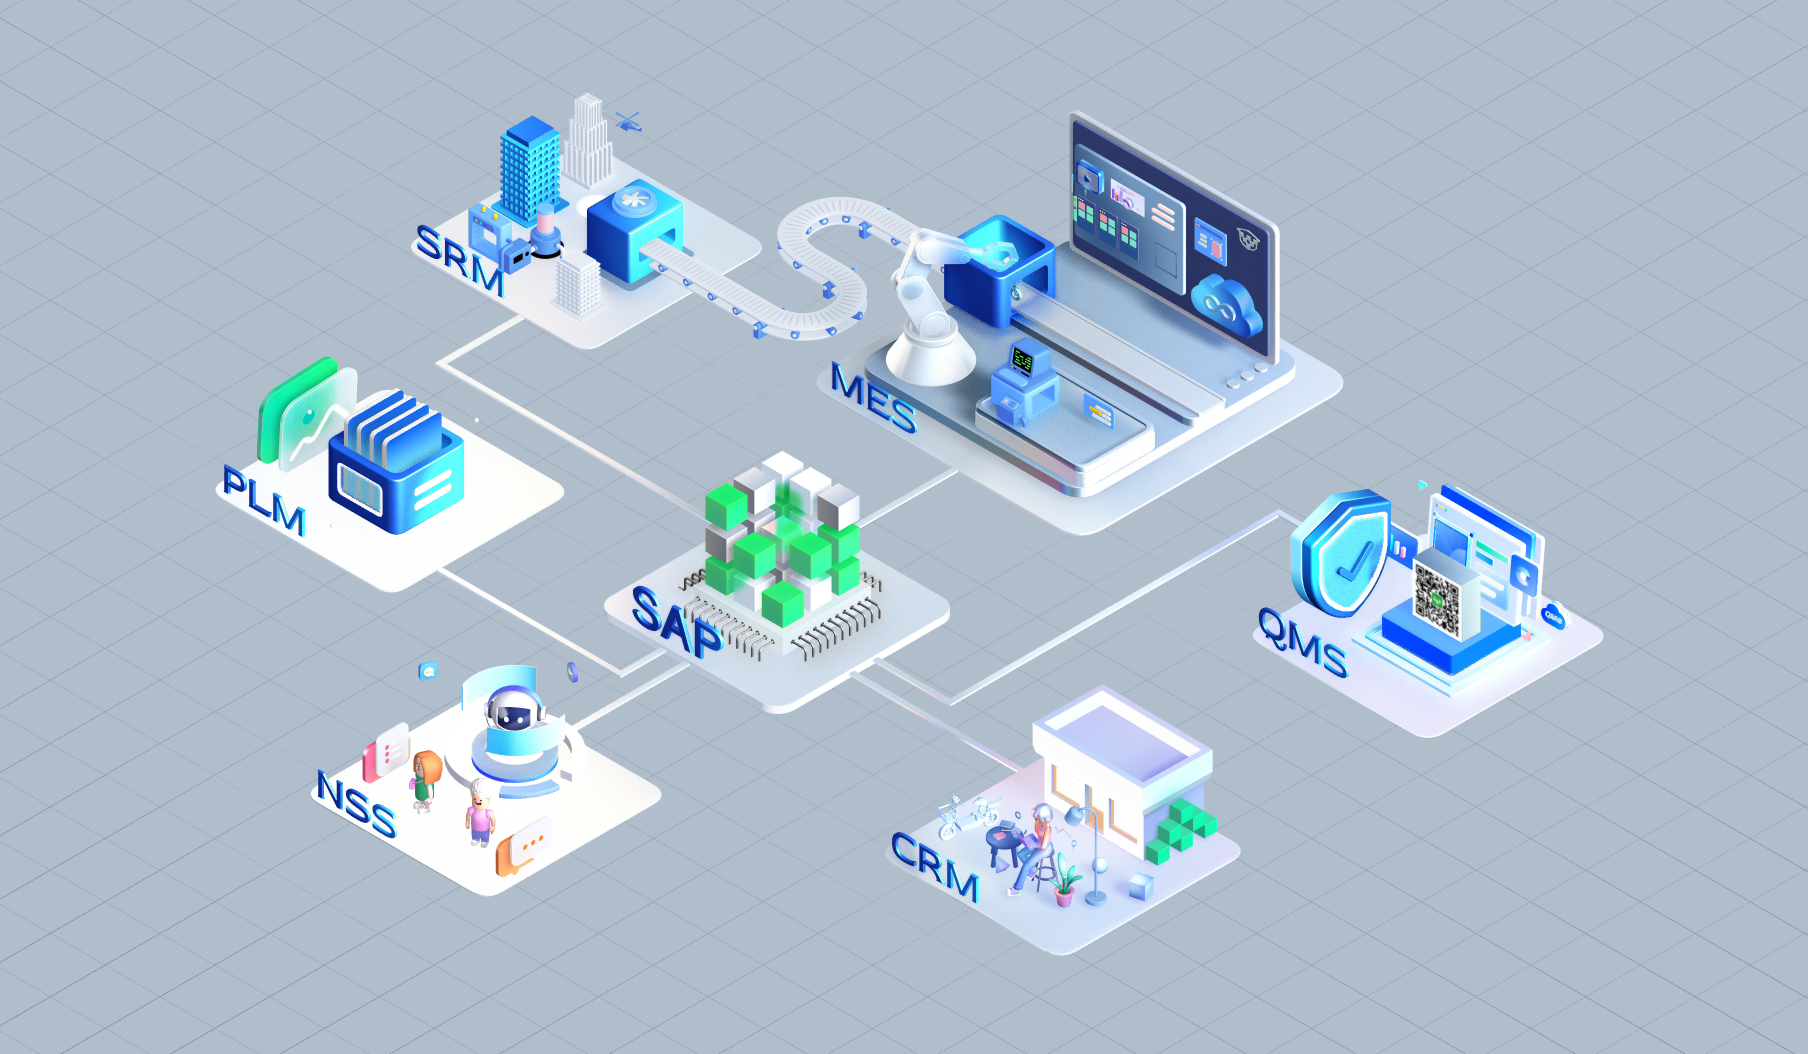
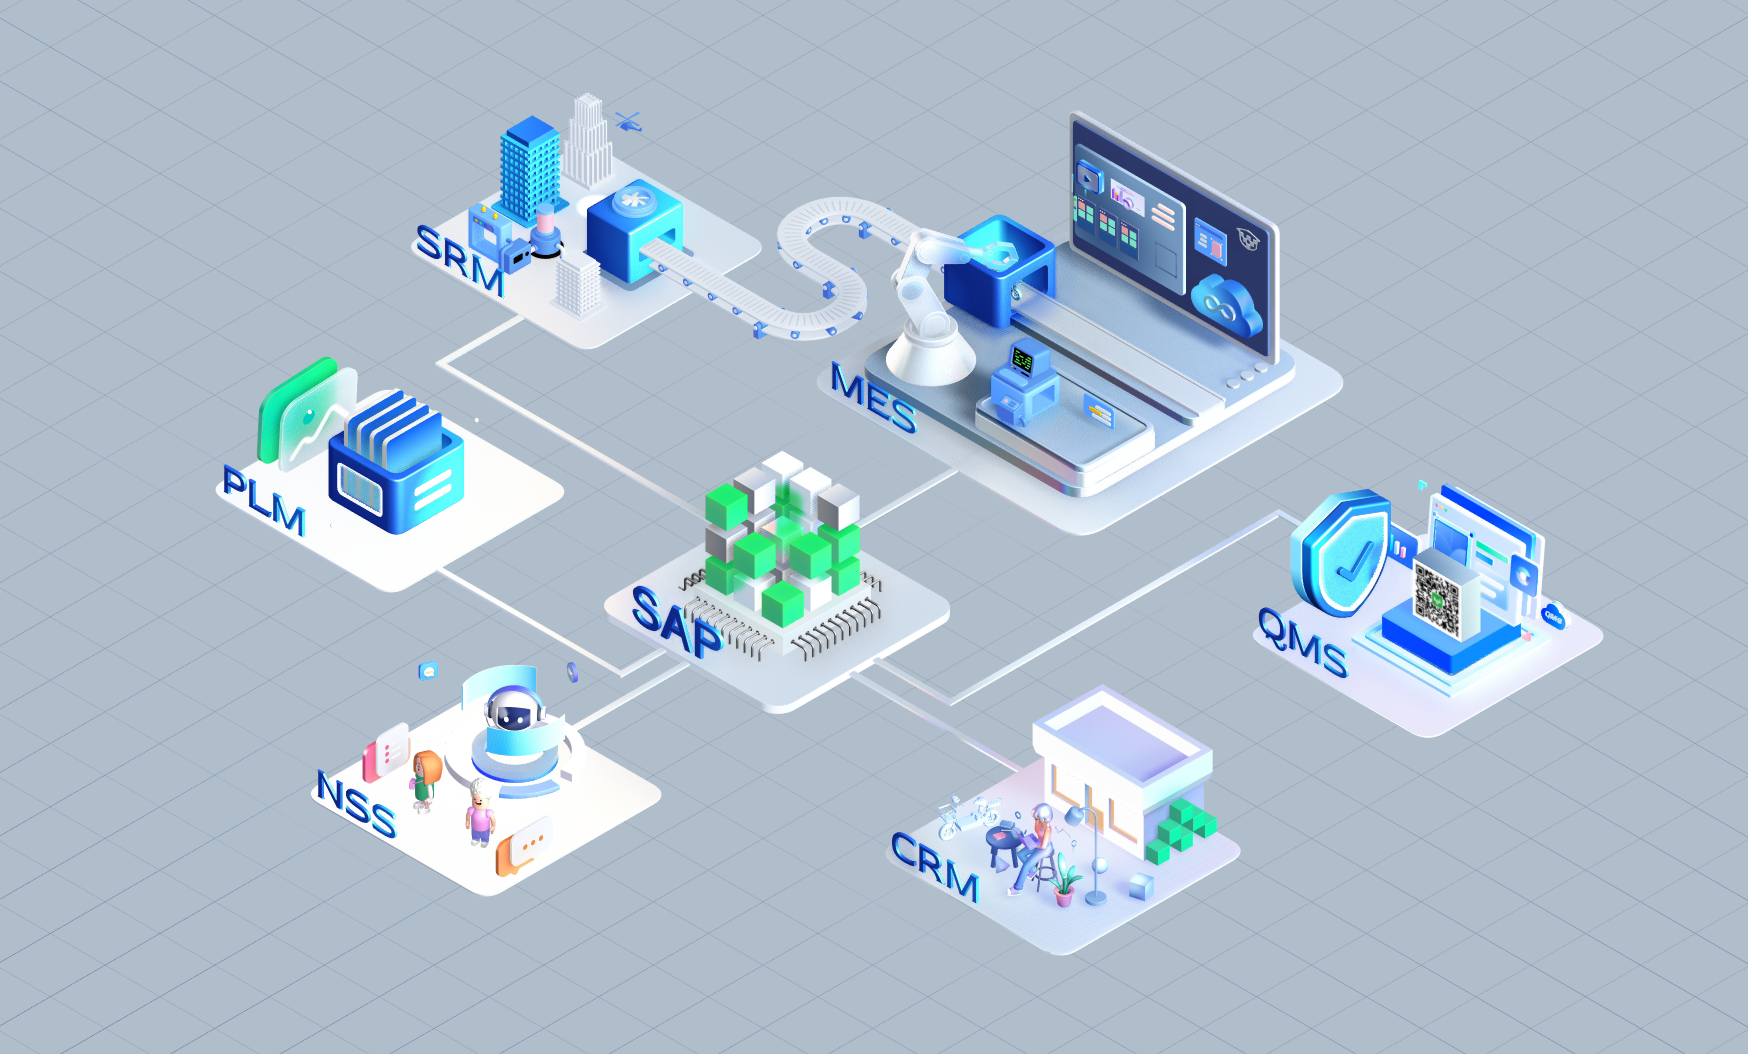
Add 3D tilt card with float animation and shine effect to landing page hero image
- Crop factory image 60px from right side
- Implement TiltCard component with dual-state behavior:
  - Default: smooth floating oscillation (±10px) with animated drop shadow
  - Hover: 3D perspective tilt that follows cursor position
  - Shine gleam sweeps diagonally across image in idle state
  - JS-driven animation (requestAnimationFrame) for seamless transitions between states

Changed region(s): [[0.1236, 0.0911, 0.9268, 0.9108], [0.278, 0.4858, 0.3089, 0.5161]]

diff --git a/src/app/pages/LandingPage.tsx b/src/app/pages/LandingPage.tsx
@@ -1,3 +1,4 @@
+import { useRef, useState, useEffect, useCallback } from 'react';
 import { useNavigate } from 'react-router';
 import { ArrowRight, ArrowDown, Bot, Target, Zap, Link, ShieldCheck, LineChart, Factory, Store, Settings, Brain, Check } from 'lucide-react';
 import { useTranslation, Trans } from 'react-i18next';
@@ -8,6 +9,90 @@ const ProceptLogo = ({ className }: { className?: string }) => (
     <path d="M 4 50 L 96 50 M 78 36 L 96 50 L 78 64" />
   </svg>
 );
+
+const shimmerKeyframes = `
+  @keyframes shimmer {
+    0% { background-position: 200% 0; }
+    100% { background-position: -200% 0; }
+  }
+`;
+
+const TiltCard = ({ children, className = '' }: { children: React.ReactNode; className?: string }) => {
+  const ref = useRef<HTMLDivElement>(null);
+  const [hovering, setHovering] = useState(false);
+  const [tilt, setTilt] = useState({ x: 0, y: 0 });
+  const [floatY, setFloatY] = useState(0);
+  const [floatShadow, setFloatShadow] = useState('0 8px 30px rgba(0,0,0,0.08)');
+  const animRef = useRef(0);
+
+  const animate = useCallback(() => {
+    const t = performance.now() / 1000;
+    const y = Math.sin(t * 1.2) * 10; // ±10px oscillation
+    const shadowAlpha = 0.08 + ((Math.sin(t * 1.2) + 1) / 2) * 0.08; // 0.08 → 0.16
+    const shadowY = 8 + ((Math.sin(t * 1.2) + 1) / 2) * 16; // 8px → 24px
+    const shadowBlur = 30 + ((Math.sin(t * 1.2) + 1) / 2) * 25; // 30px → 55px
+    setFloatY(y);
+    setFloatShadow(`0 ${shadowY}px ${shadowBlur}px rgba(0,0,0,${shadowAlpha.toFixed(3)})`);
+    animRef.current = requestAnimationFrame(animate);
+  }, []);
+
+  useEffect(() => {
+    if (!hovering) {
+      animRef.current = requestAnimationFrame(animate);
+    } else {
+      cancelAnimationFrame(animRef.current);
+    }
+    return () => cancelAnimationFrame(animRef.current);
+  }, [hovering, animate]);
+
+  const handleMouseMove = (e: React.MouseEvent) => {
+    const el = ref.current;
+    if (!el) return;
+    const rect = el.getBoundingClientRect();
+    const x = (e.clientX - rect.left) / rect.width - 0.5;
+    const y = (e.clientY - rect.top) / rect.height - 0.5;
+    setTilt({ x, y });
+  };
+
+  // Always use inline transform so CSS transition can interpolate seamlessly
+  const transform = hovering
+    ? `perspective(1200px) rotateY(${tilt.x * 12}deg) rotateX(${-tilt.y * 8}deg) translateZ(20px)`
+    : `perspective(1200px) rotateY(0deg) rotateX(0deg) translateY(${floatY}px)`;
+
+  const boxShadow = hovering
+    ? `${-tilt.x * 30}px ${-tilt.y * 30}px 60px rgba(0,0,0,0.15)`
+    : floatShadow;
+
+  return (
+    <>
+      <style>{shimmerKeyframes}</style>
+      <div
+        ref={ref}
+        className={className}
+        style={{
+          transform,
+          boxShadow,
+          transformStyle: 'preserve-3d',
+          transition: 'transform 0.3s ease-out, box-shadow 0.3s ease-out',
+        }}
+        onMouseEnter={() => setHovering(true)}
+        onMouseMove={handleMouseMove}
+        onMouseLeave={() => { setHovering(false); setTilt({ x: 0, y: 0 }); }}
+      >
+        {/* Shine gleam overlay */}
+        <div
+          className="absolute inset-0 pointer-events-none z-10 rounded-2xl overflow-hidden"
+          style={{
+            background: 'linear-gradient(105deg, transparent 40%, rgba(255,255,255,0.06) 45%, rgba(255,255,255,0.12) 50%, rgba(255,255,255,0.06) 55%, transparent 60%)',
+            backgroundSize: '200% 100%',
+            animation: hovering ? 'none' : 'shimmer 3.5s ease-in-out infinite',
+          }}
+        />
+        {children}
+      </div>
+    </>
+  );
+};
 
 const DataFlowDiagram = () => {
   const { t } = useTranslation();
@@ -184,13 +269,13 @@ export function LandingPage() {
                 {/* RIGHT — Factory Image */}
                 <div className="relative lg:self-stretch flex items-center">
                   <div className="absolute inset-0 bg-cyan-400/[0.04] rounded-[2.5rem] blur-3xl -z-10 pointer-events-none scale-90" />
-                  <div className="relative w-full rounded-2xl overflow-hidden border border-gray-200/80 shadow-xl shadow-gray-200/50 bg-[#0A0D12] aspect-[5/4] lg:aspect-[16/9]">
+                  <TiltCard className="relative w-full rounded-2xl overflow-hidden border border-gray-200/80 shadow-xl shadow-gray-200/50 bg-[#0A0D12] aspect-[5/4] lg:aspect-[16/9]">
                     <img
                       src="/factoryimage.png"
                       alt="Smart Factory"
                       className="block w-full h-full object-cover"
                     />
-                  </div>
+                  </TiltCard>
                 </div>
 
               </div>

diff --git a/dist/index.html b/dist/index.html
@@ -14,8 +14,8 @@
       <link rel="preconnect" href="https://fonts.gstatic.com" crossorigin />
       <link href="https://fonts.googleapis.com/css2?family=Instrument+Sans:wdth,wght@75..100,400..700&family=Instrument+Serif:ital@0;1&display=swap" rel="stylesheet" />
       <title>Procept — Your Always On Call Procurement Officer</title>
-      <script type="module" crossorigin src="/assets/index-BC7WRn94.js"></script>
-      <link rel="stylesheet" crossorigin href="/assets/index-Jy_xucV5.css">
+      <script type="module" crossorigin src="/assets/index-BYnsEabm.js"></script>
+      <link rel="stylesheet" crossorigin href="/assets/index-DuNPTEmu.css">
     </head>
 
     <body>
